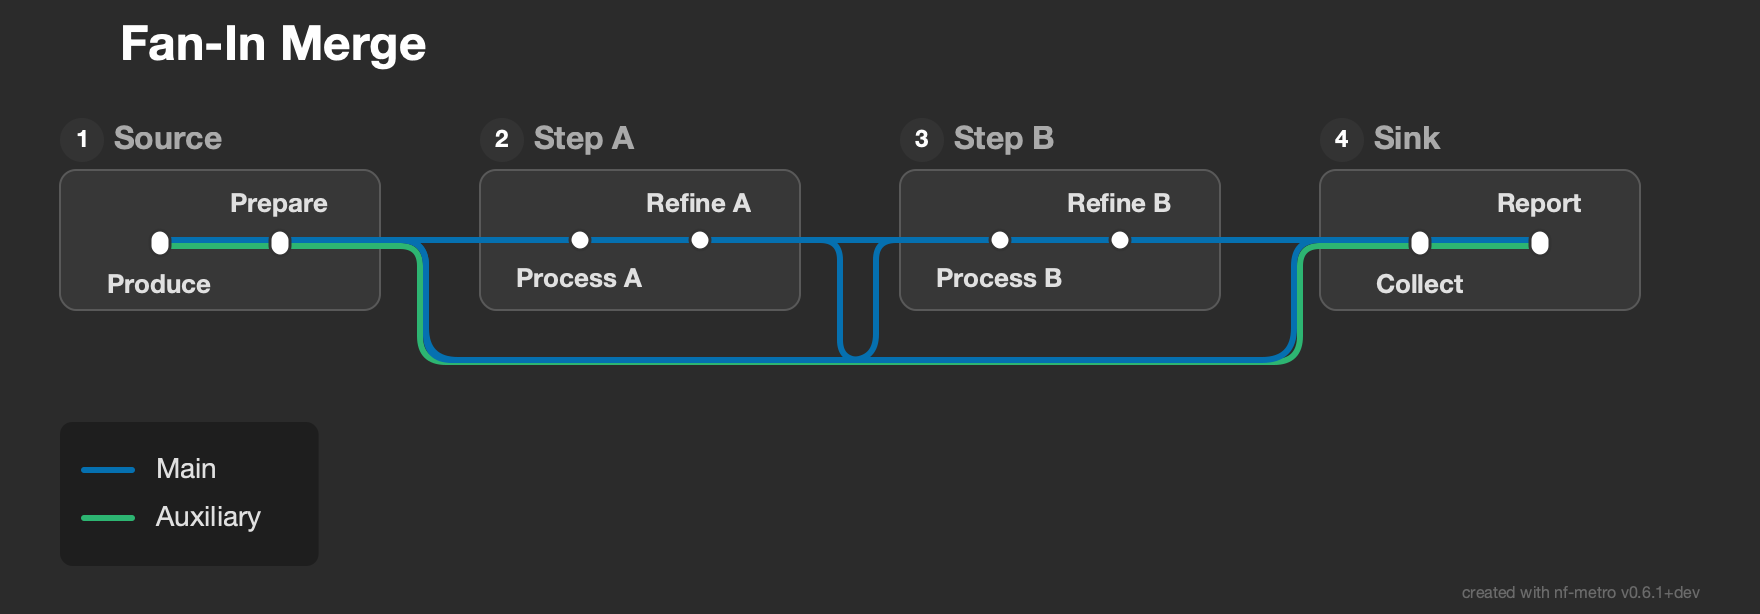
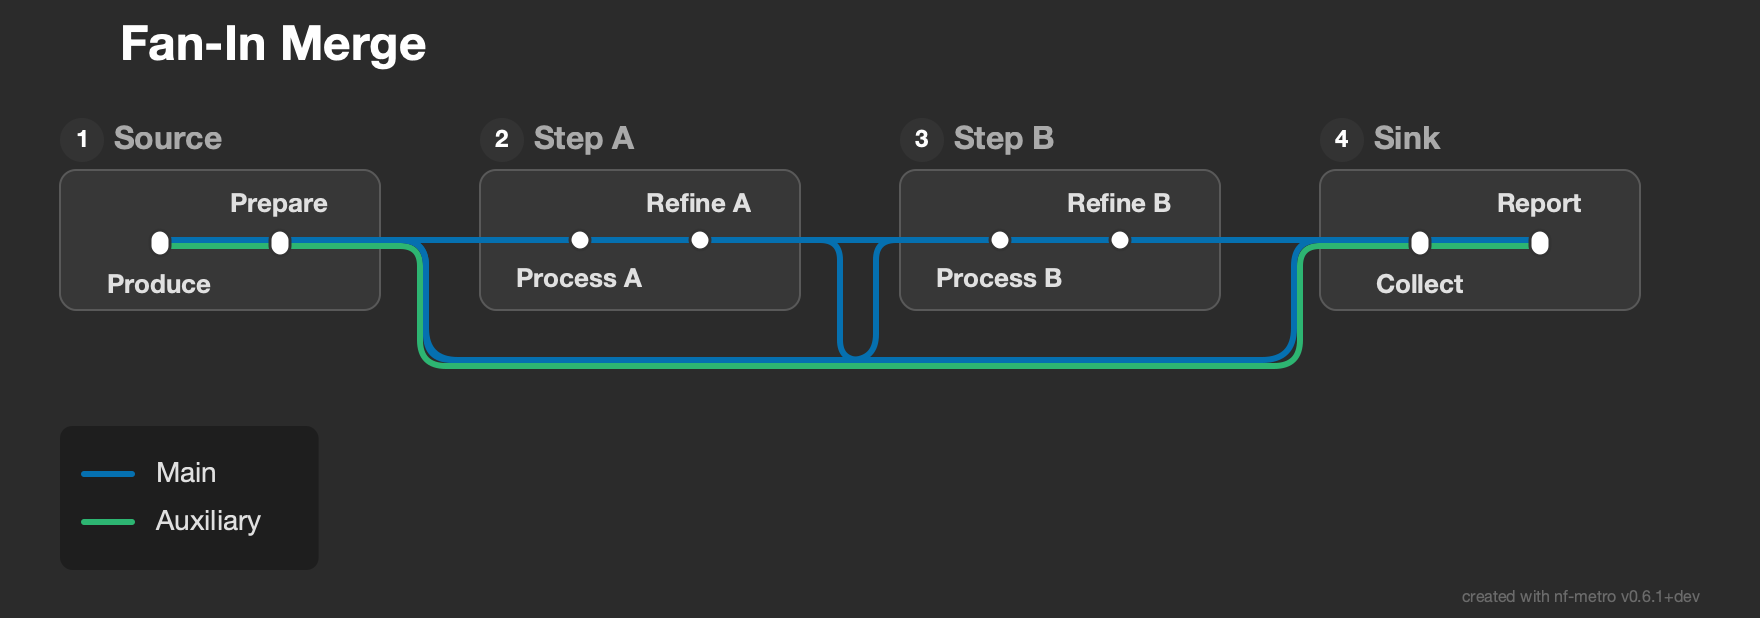
fix: revert bypass nest offset to OFFSET_STEP
Use the standard OFFSET_STEP (3px) for bypass trunk line separation,
consistent with all other bundle spacing in the codebase. The curve
concentricity gap at corners is a known pre-existing issue (#212)
that needs centralised curve logic to fix properly.

diff --git a/tests/test_topology_validation.py b/tests/test_topology_validation.py
@@ -692,8 +692,10 @@ class TestMergeRouting:
                     f"seg {k}: x {x1:.0f}->{x2:.0f}"
                 )
 
-    def test_bypass_lines_nearly_share_horizontal_y(self):
-        """Bundled bypass routes should be close on the horizontal trunk."""
+    def test_bypass_bundle_uses_offset_step(self):
+        """Bundled bypass routes should be OFFSET_STEP apart."""
+        from nf_metro.layout.constants import OFFSET_STEP
+
         graph = _load_and_layout(GENOMEASSEMBLY_FILE)
         routes = self._routes(graph)
         bypass_y: dict[str, float] = {}
@@ -708,7 +710,6 @@ class TestMergeRouting:
                     break
         if "assemblies" in bypass_y and "hic_reads" in bypass_y:
             gap = abs(bypass_y["assemblies"] - bypass_y["hic_reads"])
-            assert gap <= 2, (
-                f"Bypass lines should be close for near-concentricity, "
-                f"got {gap}px apart"
+            assert gap == OFFSET_STEP, (
+                f"Bypass bundle gap {gap}px, expected {OFFSET_STEP}px"
             )

diff --git a/src/nf_metro/layout/routing/core.py b/src/nf_metro/layout/routing/core.py
@@ -724,16 +724,11 @@ def _route_bypass(
     ekey = (edge.source, edge.target, edge.line_id)
     g1_j, g1_n, g2_j, g2_n = ctx.bypass_gap_idx.get(ekey, (0, 1, 0, 1))
 
-    # Bypass routes use a small vertical nest offset (1px) to keep
-    # lines visually distinct on the horizontal trunk without creating
-    # a visible gap at the concentric curves.  The primary per-line
-    # separation comes from gap1_extra / gap2_extra X offsets.
     fan = ctx.junction_fan_info.get(ekey)
-    nest_step = 1.0
     if fan is not None:
-        nest_offset = g2_j * nest_step
+        nest_offset = g2_j * ctx.offset_step
     else:
-        nest_offset = max(i, g2_j) * nest_step
+        nest_offset = max(i, g2_j) * ctx.offset_step
     base_y = bypass_bottom_y(graph, src_col, tgt_col, BYPASS_CLEARANCE, src_row=src_row)
     by = base_y + nest_offset
 